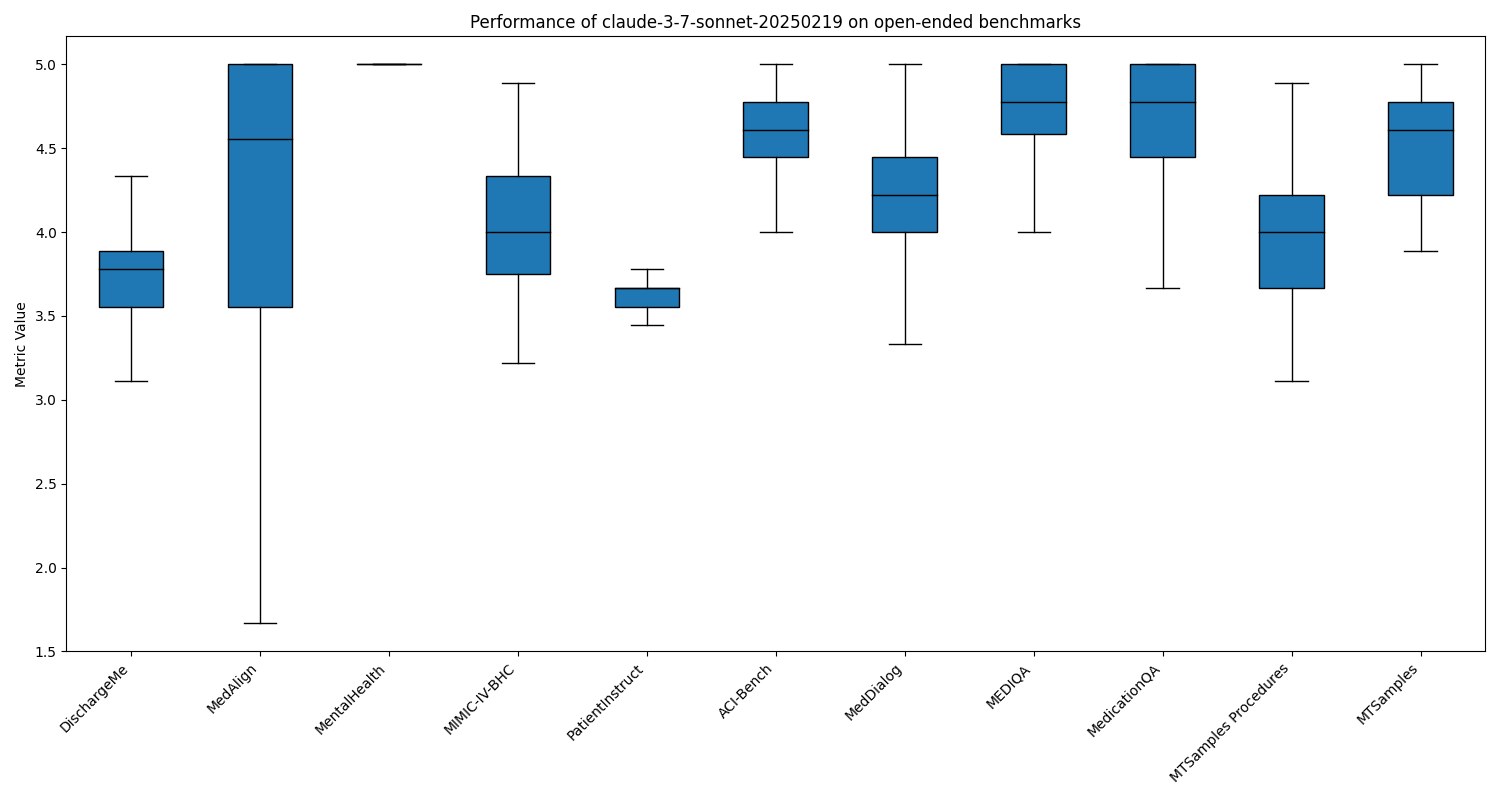
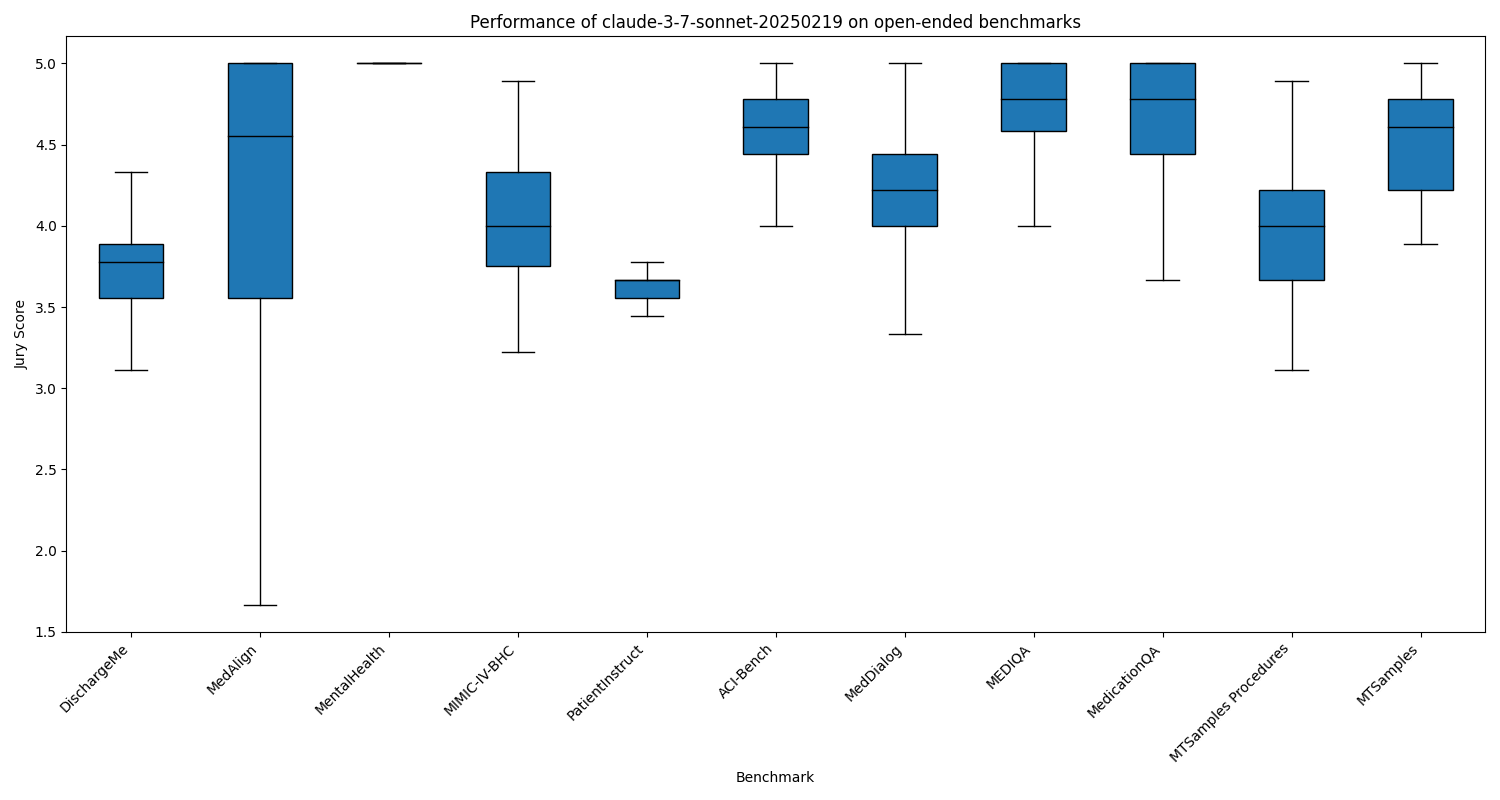
Update box plots

diff --git a/src/medhelm/plots/plot_open_ended_box_plots.py b/src/medhelm/plots/plot_open_ended_box_plots.py
@@ -161,7 +161,8 @@ def generate_box_plots(
         median.set_color("black")
 
     plt.xticks(rotation=45, ha='right')
-    plt.ylabel("Metric Value")
+    plt.ylabel("Jury Score")
+    plt.xlabel("Benchmark")
     plt.title(f"Performance of {model} on open-ended benchmarks")
     plt.tight_layout()
     plot_path = os.path.join(output_dir, f"{model}_box_plot.png")
